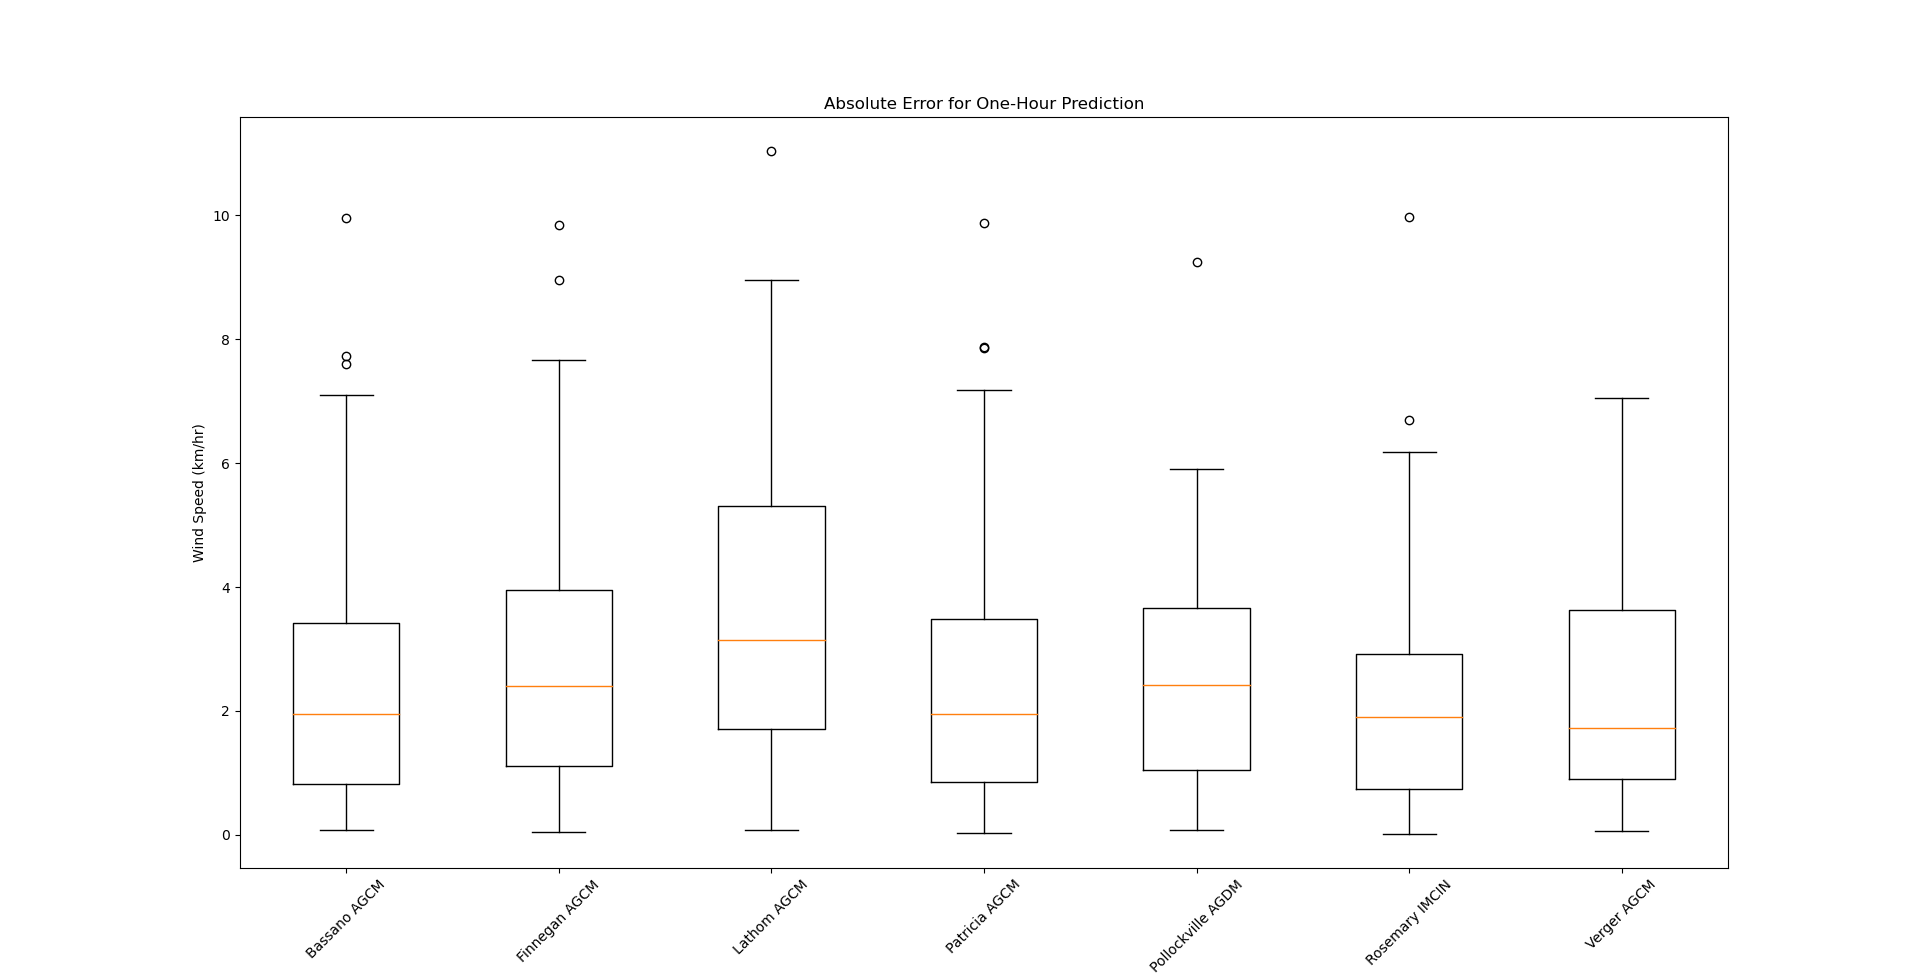
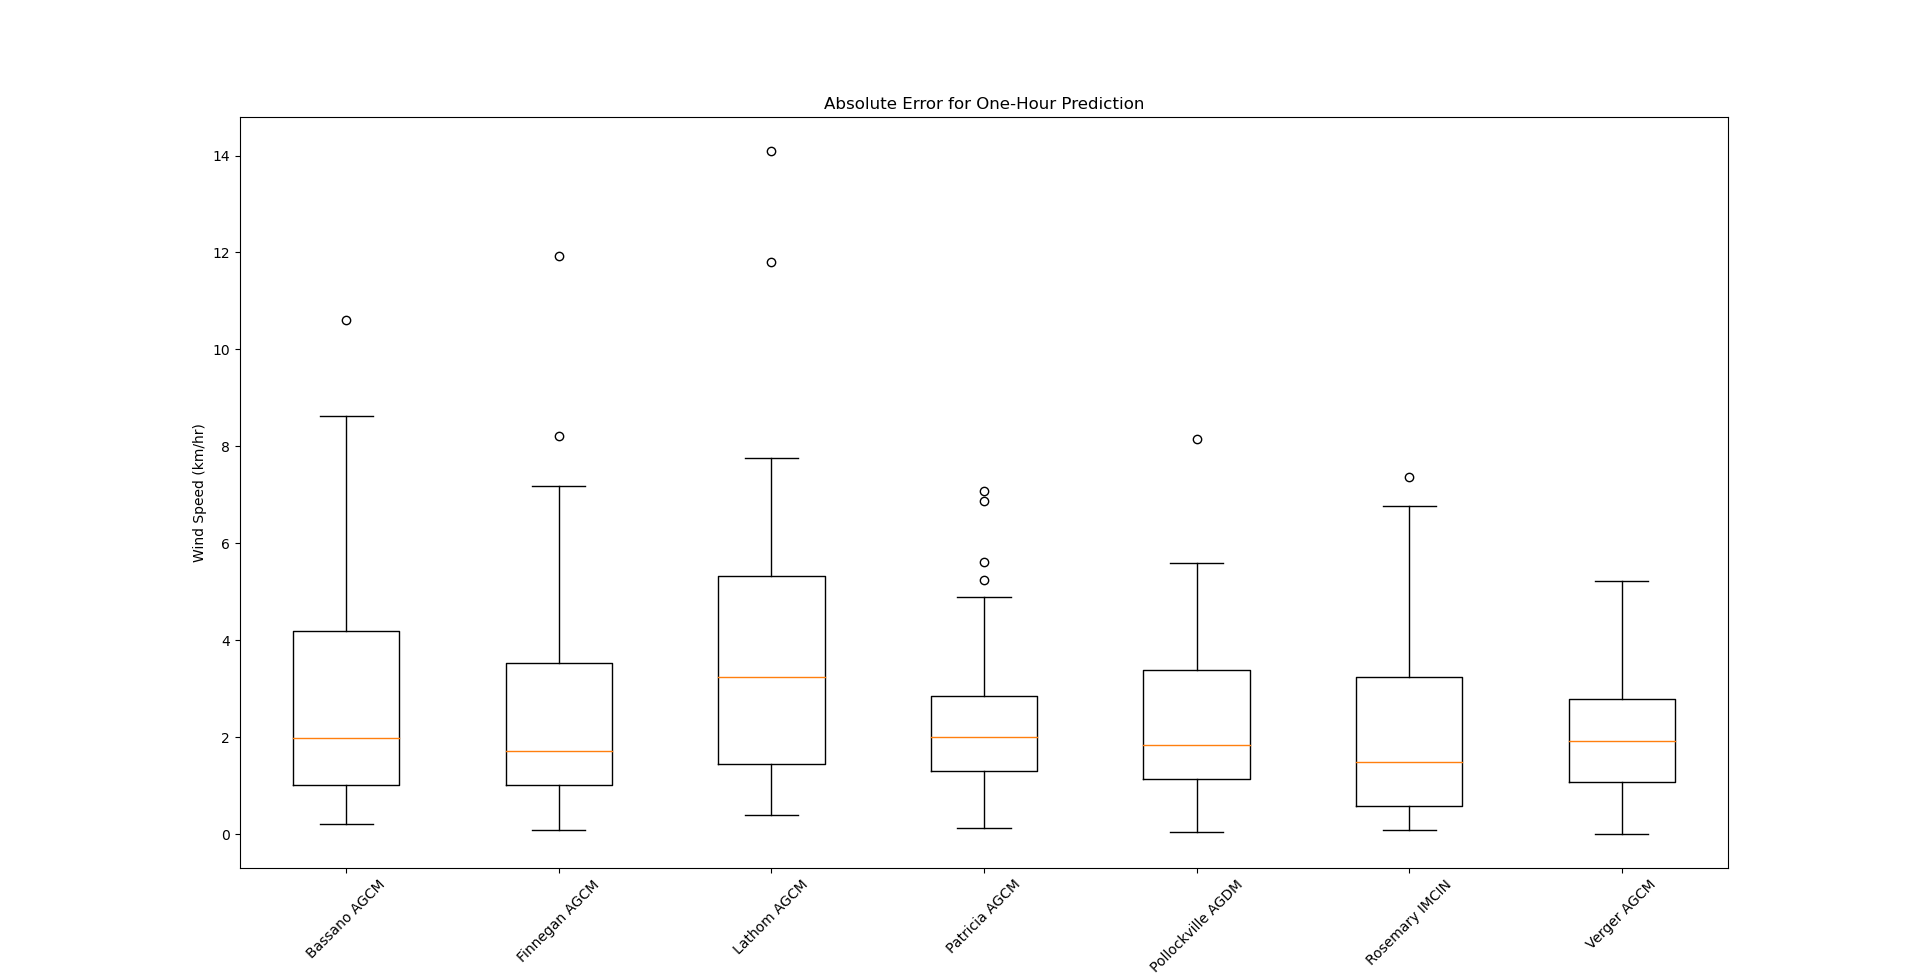
Added csv files for tables in report. Changed figures to match

diff --git a/src/main.py b/src/main.py
@@ -7,6 +7,7 @@ from step5_gcn_gru_combined_model import *
 # from step8_trainer import *
 import matplotlib.pyplot as plt
 import pandas as pd
+from sklearn.metrics import mean_squared_error
 
 if __name__ == "__main__":
     # Path to save best model to
@@ -85,6 +86,8 @@ if __name__ == "__main__":
 
     loss_list = []
     test_loss_list = []
+    predictions = []
+    truth = []
     iter = 0
     
     best_loss = 0.03
@@ -132,23 +135,70 @@ if __name__ == "__main__":
             test_lab_inv_norm = batch_y.detach().cpu().numpy() * (wind_max - wind_min) + wind_min
             test_diff = abs(test_lab_inv_norm[0] - test_out_inv_norm)
             test_loss_list.append(test_diff)
+            predictions.append(test_out_inv_norm)
+            truth.append(test_lab_inv_norm)
 
     # Step 7 - Printing Results
-    ll = loss_list
-    tll = test_loss_list
-    
-    plot_data = []
-    n = 0
+    stats1 = []
+    stats2 = []
+    stats3 = []
 
-    one_hour = [l[-1, 0:7] for l in tll]
-    two_hour = [l[-1, 7:14] for l in tll]
-    three_hour = [l[-1, 14:21] for l in tll]
+    for i in range(7):
+        one_hour_prediction = [l[-1, i] for l in predictions]
+        one_hour_truth = [l[0,-1, i] for l in truth]
+        rms1 = mean_squared_error(one_hour_truth, one_hour_prediction, squared=False)
+
+        one_hour_error = [l[-1, i] for l in test_loss_list]
+        mae1 = np.average(np.array(one_hour_error))
+
+        acc1 = np.array(one_hour_error)/np.array(one_hour_truth)
+        acc_avg1 = np.average(acc1)
+        acc_std1 = np.std(acc1)
+
+        stats1.append([rms1, mae1, acc_avg1, acc_std1])
+        ###
+        two_hour_prediction = [l[-1, i+7] for l in predictions]
+        two_hour_truth = [l[0,-1, i+7] for l in truth]
+        rms2 = mean_squared_error(two_hour_truth, two_hour_prediction, squared=False)
+
+        two_hour_error = [l[-1, i+7] for l in test_loss_list]
+        mae2 = np.average(np.array(two_hour_error))
+
+        acc2 = np.array(two_hour_error)/np.array(two_hour_truth)
+        acc_avg2 = np.average(acc2)
+        acc_std2 = np.std(acc2)
+
+        stats2.append([rms2, mae2, acc_avg2, acc_std2])
+        ###
+        three_hour_prediction =[l[-1, i+14] for l in predictions]
+        three_hour_truth = [l[0,-1, i+14] for l in truth]
+        rms3 = mean_squared_error(three_hour_truth, three_hour_prediction, squared=False)
+
+        three_hour_error = [l[-1, i+14] for l in test_loss_list]
+        mae3 = np.average(np.array(three_hour_error))
+
+        acc3 = np.array(three_hour_error)/np.array(three_hour_truth)
+        acc_avg3 = np.average(acc3)
+        acc_std3 = np.std(acc3)
+
+        stats3.append([rms3, mae3, acc_avg3, acc_std3])
+    
+    col_labels = ['RMSE','MAE','Average Accuracy','Accuracy Deviation']
+    one_hour_stats_df = pd.DataFrame(stats1, columns = col_labels, index = stations)
+    two_hour_stats_df = pd.DataFrame(stats2, columns = col_labels, index = stations)
+    three_hour_stats_df = pd. DataFrame(stats3, columns = col_labels, index = stations)
+
+    print(one_hour_stats_df)
+    print(two_hour_stats_df)
+    print(three_hour_stats_df)
+    
+    one_hour = [l[-1, 0:7] for l in test_loss_list]
+    two_hour = [l[-1, 7:14] for l in test_loss_list]
+    three_hour = [l[-1, 14:21] for l in test_loss_list]
 
     one_hr_df = pd.DataFrame(one_hour, columns = stations)
     two_hr_df = pd.DataFrame(two_hour, columns = stations)
     thr_hr_df = pd.DataFrame(three_hour, columns = stations)
-
-    print(one_hr_df)
 
     fig1, ax1 = plt.subplots()
     ax1.boxplot(one_hr_df)
@@ -174,6 +224,9 @@ if __name__ == "__main__":
     plt.title("Absolute Error for Three-Hour Prediction")
     plt.show()
 
+    one_hour_stats_df.to_csv('one_hour.csv', index = True)
+    two_hour_stats_df.to_csv('two_hour.csv', index = True)
+    three_hour_stats_df.to_csv('three_hour.csv', index = True)
 
     stuff = 0 # put breakpoint here if you want to examine the data
     #  ***
